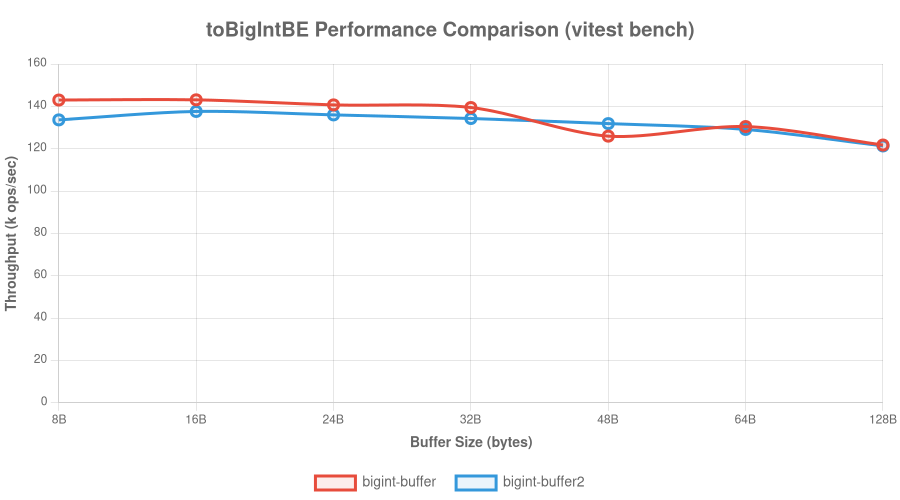
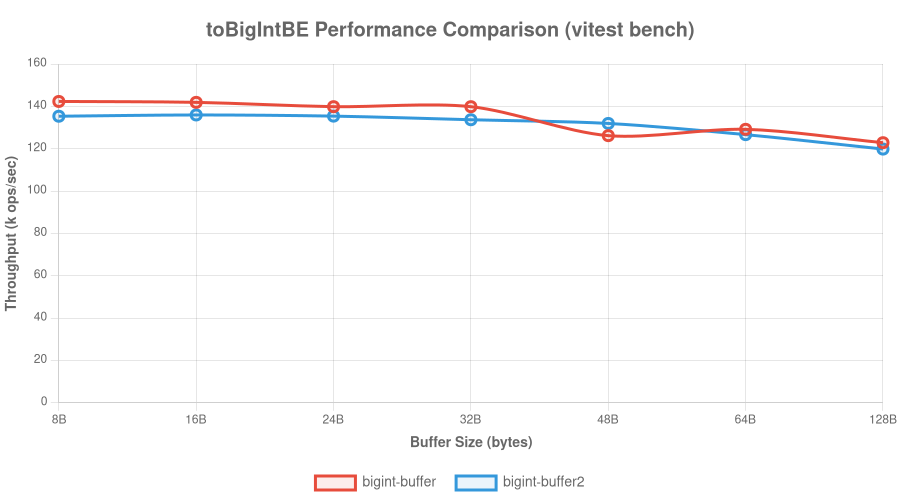
docs: fix main README links and regenerate benchmark charts
- Use absolute GitHub raw URLs for SVG logo and benchmark images
- Change package links to npm URLs for better compatibility in docs
- Regenerate benchmark charts with fresh data

Changed region(s): [[0.0622, 0.18, 0.9956, 0.33]]

diff --git a/README.md b/README.md
@@ -1,4 +1,4 @@
-# <img src=".github/swissknife.svg" height="40"/> bigint-swissknife
+# <img src="https://raw.githubusercontent.com/vekexasia/bigint-swissknife/main/.github/swissknife.svg" height="40"/> bigint-swissknife
 
 **The missing BigInt toolkit for JavaScript/TypeScript** — Fast buffer conversions, math utilities, bounded integers, and more.
 
@@ -19,17 +19,17 @@ This monorepo fills those gaps with **fast, type-safe, browser-compatible** pack
 
 | Package | Description | Highlights |
 |---------|-------------|------------|
-| **[@vekexasia/bigint-buffer2](./packages/bigint-buffer2)** | BigInt ↔ Buffer conversion | 🦀 Rust native bindings, ~30% faster than alternatives |
-| **[@vekexasia/bigint-uint8array](./packages/bigint-uint8array)** | BigInt ↔ Uint8Array with bounds checking | Signed/unsigned, big/little endian |
-| **[@vekexasia/bigint-constrained](./packages/bigint-constrained)** | Bounded BigInts (u8, i32, u256, etc.) | Overflow protection on all operations |
-| **[@vekexasia/bigint-math](./packages/bigint-math)** | Math utilities for BigInt | abs, sign, max, min, rand, bitLength |
-| **[@vekexasia/bigint-buffer-polyfill](./packages/bigint-buffer-polyfill)** | Buffer prototype extensions | `buf.writeBigIntBE()`, `buf.readBigUIntLE()` |
+| **[@vekexasia/bigint-buffer2](https://www.npmjs.com/package/@vekexasia/bigint-buffer2)** | BigInt ↔ Buffer conversion | 🦀 Rust native bindings, ~30% faster than alternatives |
+| **[@vekexasia/bigint-uint8array](https://www.npmjs.com/package/@vekexasia/bigint-uint8array)** | BigInt ↔ Uint8Array with bounds checking | Signed/unsigned, big/little endian |
+| **[@vekexasia/bigint-constrained](https://www.npmjs.com/package/@vekexasia/bigint-constrained)** | Bounded BigInts (u8, i32, u256, etc.) | Overflow protection on all operations |
+| **[@vekexasia/bigint-math](https://www.npmjs.com/package/@vekexasia/bigint-math)** | Math utilities for BigInt | abs, sign, max, min, rand, bitLength |
+| **[@vekexasia/bigint-buffer-polyfill](https://www.npmjs.com/package/@vekexasia/bigint-buffer-polyfill)** | Buffer prototype extensions | `buf.writeBigIntBE()`, `buf.readBigUIntLE()` |
 
 ## Performance
 
 `bigint-buffer2` provides native Rust bindings that outperform pure JavaScript implementations:
 
-![Performance Comparison](./packages/bigint-buffer2/docs/benchmark-operations-BE.png)
+![Performance Comparison](https://raw.githubusercontent.com/vekexasia/bigint-swissknife/main/packages/bigint-buffer2/docs/benchmark-operations-BE.png)
 
 *The red bars (`toBufferBEInto`) show 30-40% speedup by writing directly into pre-allocated buffers.*
 
